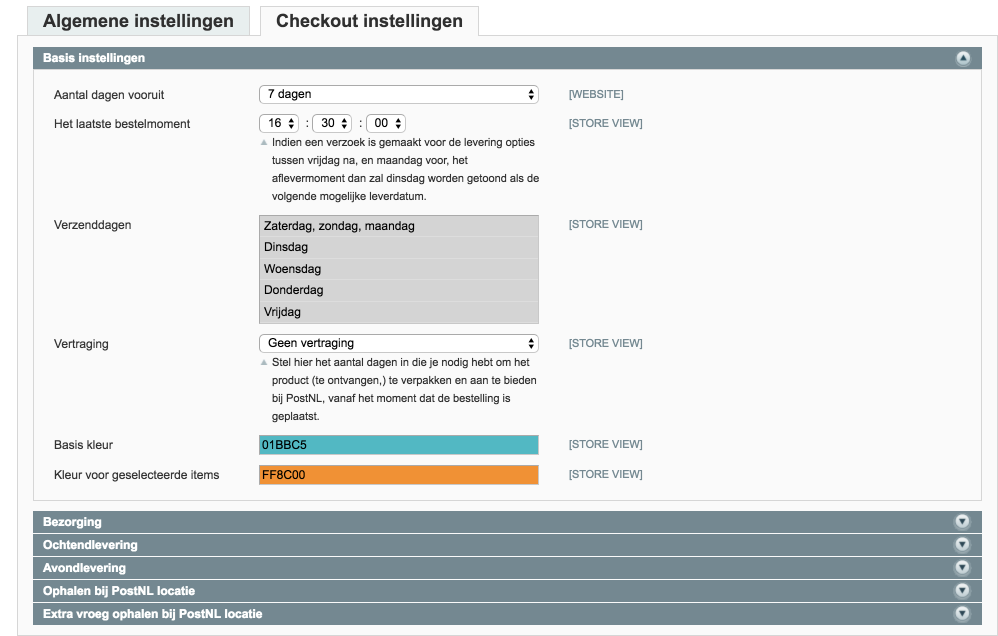
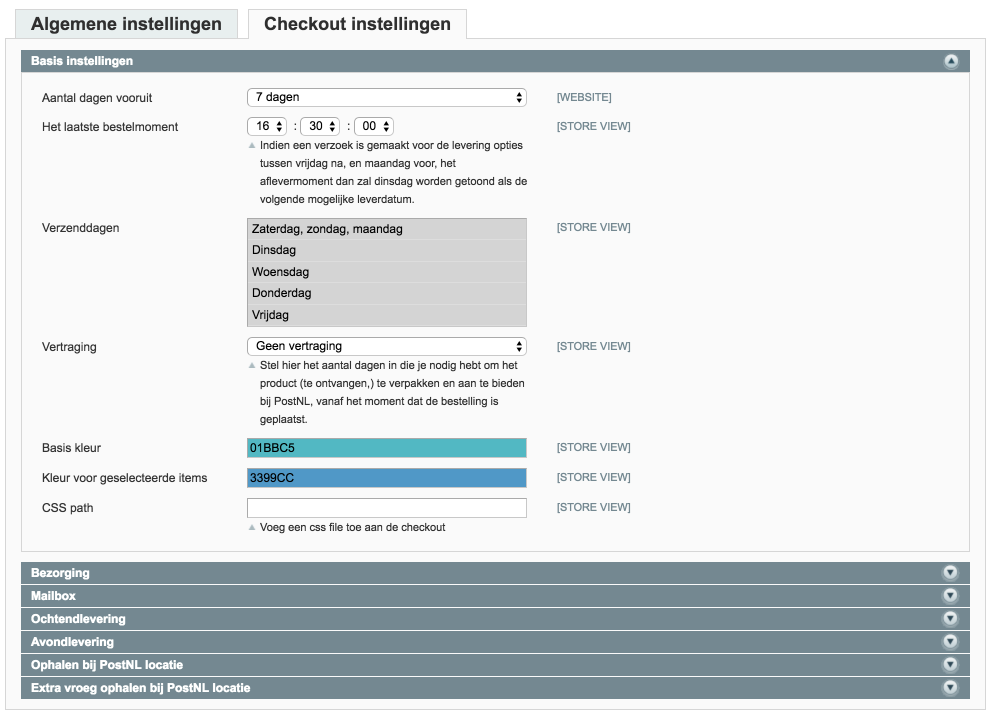
add changes

diff --git a/index.html b/index.html
@@ -22,11 +22,11 @@
         Installatie- gebruikershandleiding
     </h1>
     <h2 class="project-tagline">
-        Magento MyParcel plug-in 1.7.x
+        Magento MyParcel plug-in 1.10.x
     </h2>
     <a target="_blank" class="btn" href="https://github.com/myparcelnl/Magento1">GitHub</a>
     <a target="_blank" class="btn" href="https://github.com/myparcelnl/magento1/releases">Alle updates</a>
-    <a target="_blank" class="btn" href="https://github.com/myparcelnl/magento1/releases/latest">Laatste versie</a>
+    <a target="_blank" class="btn" href="https://github.com/myparcelnl/magento1/archive/master.zip">Laatste versie</a>
     <br>
     <a target="_blank" class="btn" href="https://myparcelnl.github.io/magento1/1_5.html">Handleiding voor 1.5</a>
     <a target="_blank" class="btn" href="https://static1.squarespace.com/static/577bc806725e258e705c2a64/t/57fdefa815d5db9e7eed5542/1476259756919/Magento+update+naar+1.7++-+Flexibele+Bezorgopties+MyParcel.pdf">Wat is nieuw in versie 1.7?</a>
@@ -354,7 +354,7 @@
 
         <h1 id="3">3 Checkout instellingen</h2>
         <p>
-            Op het tabblad 'Checkout instellingen' kun je alle gewenste instellingen toepassen die zichtbaar zijn in de checkout. Dit tabblad wordt onderverdeeld in 'Basis instellingen' , 'Bezorging', 'Ochtendlevering', 'Avondlevering' , 'Ophalen' en 'Extra vroeg ophalen'
+            Op het tabblad 'Checkout instellingen' kun je alle gewenste instellingen toepassen die zichtbaar zijn in de checkout. Dit tabblad wordt onderverdeeld in 'Basis instellingen' , 'Bezorging', 'Mailbox' , 'Ochtendlevering', 'Avondlevering' , 'Ophalen' en 'Extra vroeg ophalen'
         </p>
 
         <h2 id="3_1">3.1 Basis instellingen</h2>
@@ -384,23 +384,31 @@
             <p>Je kunt hiermee aangeven of jouw klanten hier zelf voor kunnen kiezen in de checkout. Indien jij dit wilt weergeven in de checkout kies dan voor <span class="nice">Ja</span> Ook is het mogelijk om aan deze optie een eigen naam mee te geven, in het voorbeeld heet deze optie 'Handtekening voor ontvangst'. Als laatste optie kun je er ook een meerprijs aan koppelen, in het voorbeeld kost deze optie €0.45 extra.</p>
             <p> Er is ook een optie gemaakt voor een gecombineerde meerprijs voor de keuzes samen<span class="nice">Alleen bij mij bezorgen</span> en <span class="nice">Handtekening voor ontvangst</span> te bepalen. Je kunt zelf een prijs naar eigen inzicht invullen.</p>
             
+        <h2 id="3_3">3.3 Mailbox</h2>
+        	<img src="media1_7/mailbox.png">
+        	<p>Het is mogelijk om automatisch brievenbuspakjes te laten selecteren afhankelijk van de instellingen. Dit kan op basis van gewicht of volume welke jij kunt instellen bij de productgegevens. <span class="nice">Catalog -> Manage products -> Klik op edit</span><br><br>
+        	<img src="media1_7/manageproducts.png"></p>
+
+			<p>Het is mogelijk om dit te tonen in de checkout waarbij jouw klant een keuze heeft. In dit geval zullen er meerdere verzendopties worden getoont, namelijk: Pakket, Brievenbuspakje en indien ingesteld de keuze om op te halen bij een PostNL locatie.
+			Wil je liever niet deze keuze aan jouw klant bieden, kun je de titel leeg laten. In dit geval zal er alleen een brievenbuspakje worden aangemaakt bij MyParcel maar wordt het gewone tarief berekend.</p> 
+			<img src="media1_7/checkoutbbp.png">   
            
-        <h2 id="3_3">3.3 Ochtendlevering</h2>
+        <h2 id="3_4">3.4 Ochtendlevering</h2>
         	<p>Het is mogelijk om jouw klanten de mogelijkheid te geven te kiezen voor ochtendlevering (bezorging tussen 08:00 en 12:00). Wanneer je deze optie hebt geactiveerd zal er een extra keuzemogelijkheid verschijnen in de checkout. Tevens is het mogelijk hier een meerprijs aan te koppelen. De prijs die hier wordt ingevuld zal bij het huidige tarief worden opgeteld. Jouw klant ziet in de checkout het totaalbedrag van de zending.
         	</p>
         	<img src="media1_7/ochtendlevering.png">
 
-        <h2 id="3_4">3.4 Avondlevering</h2>
+        <h2 id="3_5">3.5 Avondlevering</h2>
         	<p>Het is ook mogelijk om jouw klanten de mogelijkheid te geven te kiezen voor avondlevering (bezorging vanaf 18:00 uur). Wanneer je deze optie hebt geactiveerd zal er net een extra keuzemogelijkheid verschijnen in de checkout. Tevens is het mogelijk hier een meerprijs aan te koppelen. De prijs die hier wordt ingevuld zal bij het huidige tarief worden opgeteld. Jouw klant ziet in de checkout het totaalbedrag van de zending.</p>
         	<img src="media1_7/avondlevering.png">
 
-        <h2 id="3_5">3.5 Ophalen</h2>
+        <h2 id="3_6">3.6 Ophalen</h2>
         	<p>Met deze optie kunnen jouw klanten kiezen om hun pakket bij een PostNL locatie op te halen. Deze locatie kunnen zij zelf kiezen in de checkout. Je kunt hier eventueel ook een meerprijs voor rekenen.</p>
-        	<img src="media1_7/ophalenpostnl.png">
+        	<img src="media1_7/ophalen.png">
 
-        <h2 id="3_6">3.6 Extra vroeg ophalen</h2>
+        <h2 id="3_7">3.7 Extra vroeg ophalen</h2>
         	<p>Ook voor het ophalen op een PostNL locatie is er een mogelijkheid om dit specifiek in de ochtend te doen (mogelijk vanaf 08:30 in plaats vanaf 16:00). Ook hierbij heb je de keuze om een meerprijs toe te voegen.</p>
-        	<img src="media1_7/extravroegophalenpostnl.png">
+        	<img src="media1_7/extravroegophalen.png">
 
 
 
@@ -462,6 +470,14 @@
             e-mailadres is ingevuld bij de zending. Je kunt jouw e-mail voor retouren binnen MyParcel eventueel nog
             personaliseren. Ook is het mogelijk om een eigen bijdrage voor jouw klant in te stellen. Je kunt dit doen door in te loggen bij MyParcel bij <span class="nice">Instellingen → Retour</span> en dan
             onderaan de pagina <span class="nice">Pas e-mail aan</span>.
+        </p>
+
+        <h2 id="4_2_1">4.2.1 Genereer ongerelateerde retourlabel</h2>
+        <p>
+        	Je kunt vanuit jouw order overzicht een retourlabel versturen naar jouw klant. Klik hiervoor op de button <span class="nice">Mail retourlabel</span><br>
+        	<img src="media1_7/mailretourlabel.png"><br><br>
+        	Vervolgens opent er een scherm waarin je de naam en het e-mailadres van jouw klant invullen. Ook is het mogelijk een kenmerk mee te geven zodat je eenvoudig kunt zien om welke zending het gaat.<br><br>
+        	<img src="media1_7/gegevensretourlabel.png">
         </p>
 
         <h1 id="5">5 Upgraden</h1>
